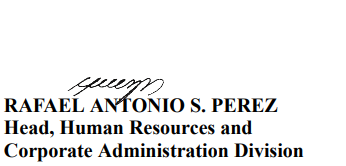
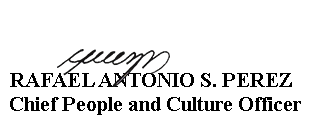
updated RAP esign

Changed region(s): [[0.0, 0.72, 0.9091, 0.984], [0.0, 0.384, 0.9091, 0.696]]

diff --git a/template/2015/coe/coe_non_cash_advancement.php b/template/2015/coe/coe_non_cash_advancement.php
@@ -949,8 +949,7 @@
 				}else{
 				?>
 				<b><p style="padding-top: 40px; <?php echo $send_pdf ? '' : 'padding-bottom: 40px;'; ?> padding-left: 50px; padding-right: 50px;">RAFAEL ANTONIO S. PEREZ<br />
-				Head, Human Resources and<br />
-				Corporate Administration Division</p></b>
+				Chief People and Culture Officer</p></b>
 				<?php
 				}
 				?>

diff --git a/template/2015/coe_pdf.php b/template/2015/coe_pdf.php
@@ -2046,8 +2046,7 @@
 					<p
 						style="padding-top: 40px; <?php echo $send_pdf ? '' : 'padding-bottom: 40px;'; ?> padding-left: 50px; padding-right: 50px;">
 						RAFAEL ANTONIO S. PEREZ<br />
-						Head, Human Resources and<br />
-						Corporate Administration Division</p>
+						Chief People and Culture Officer</p>
 				</b>
 				<?php
 			}
